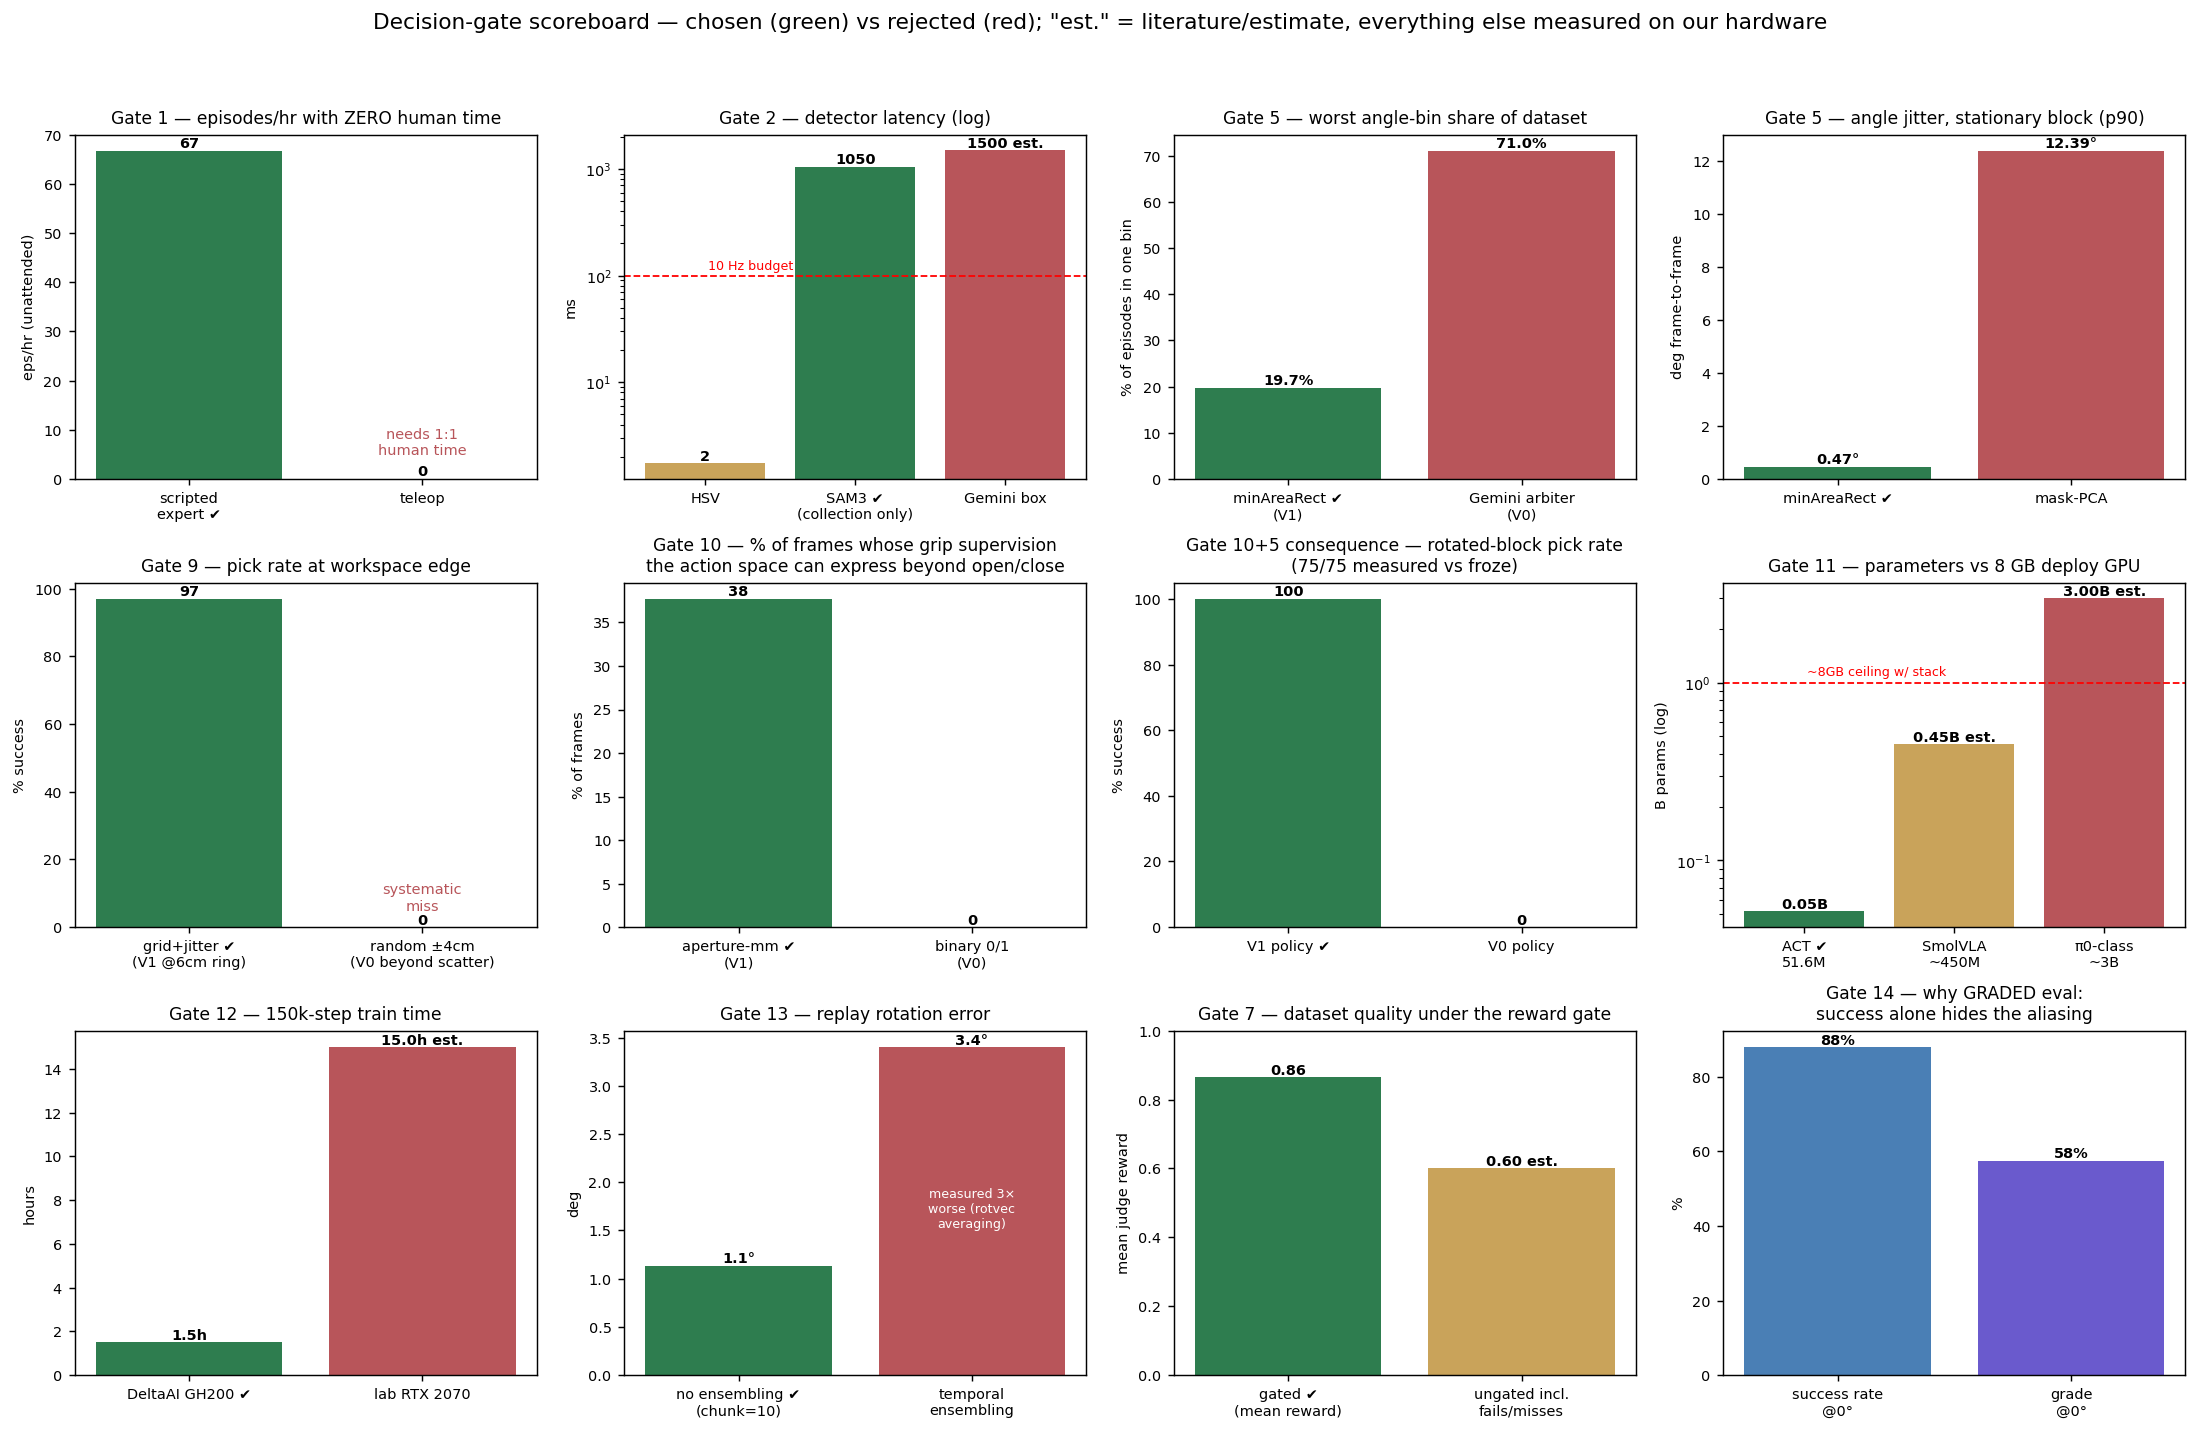
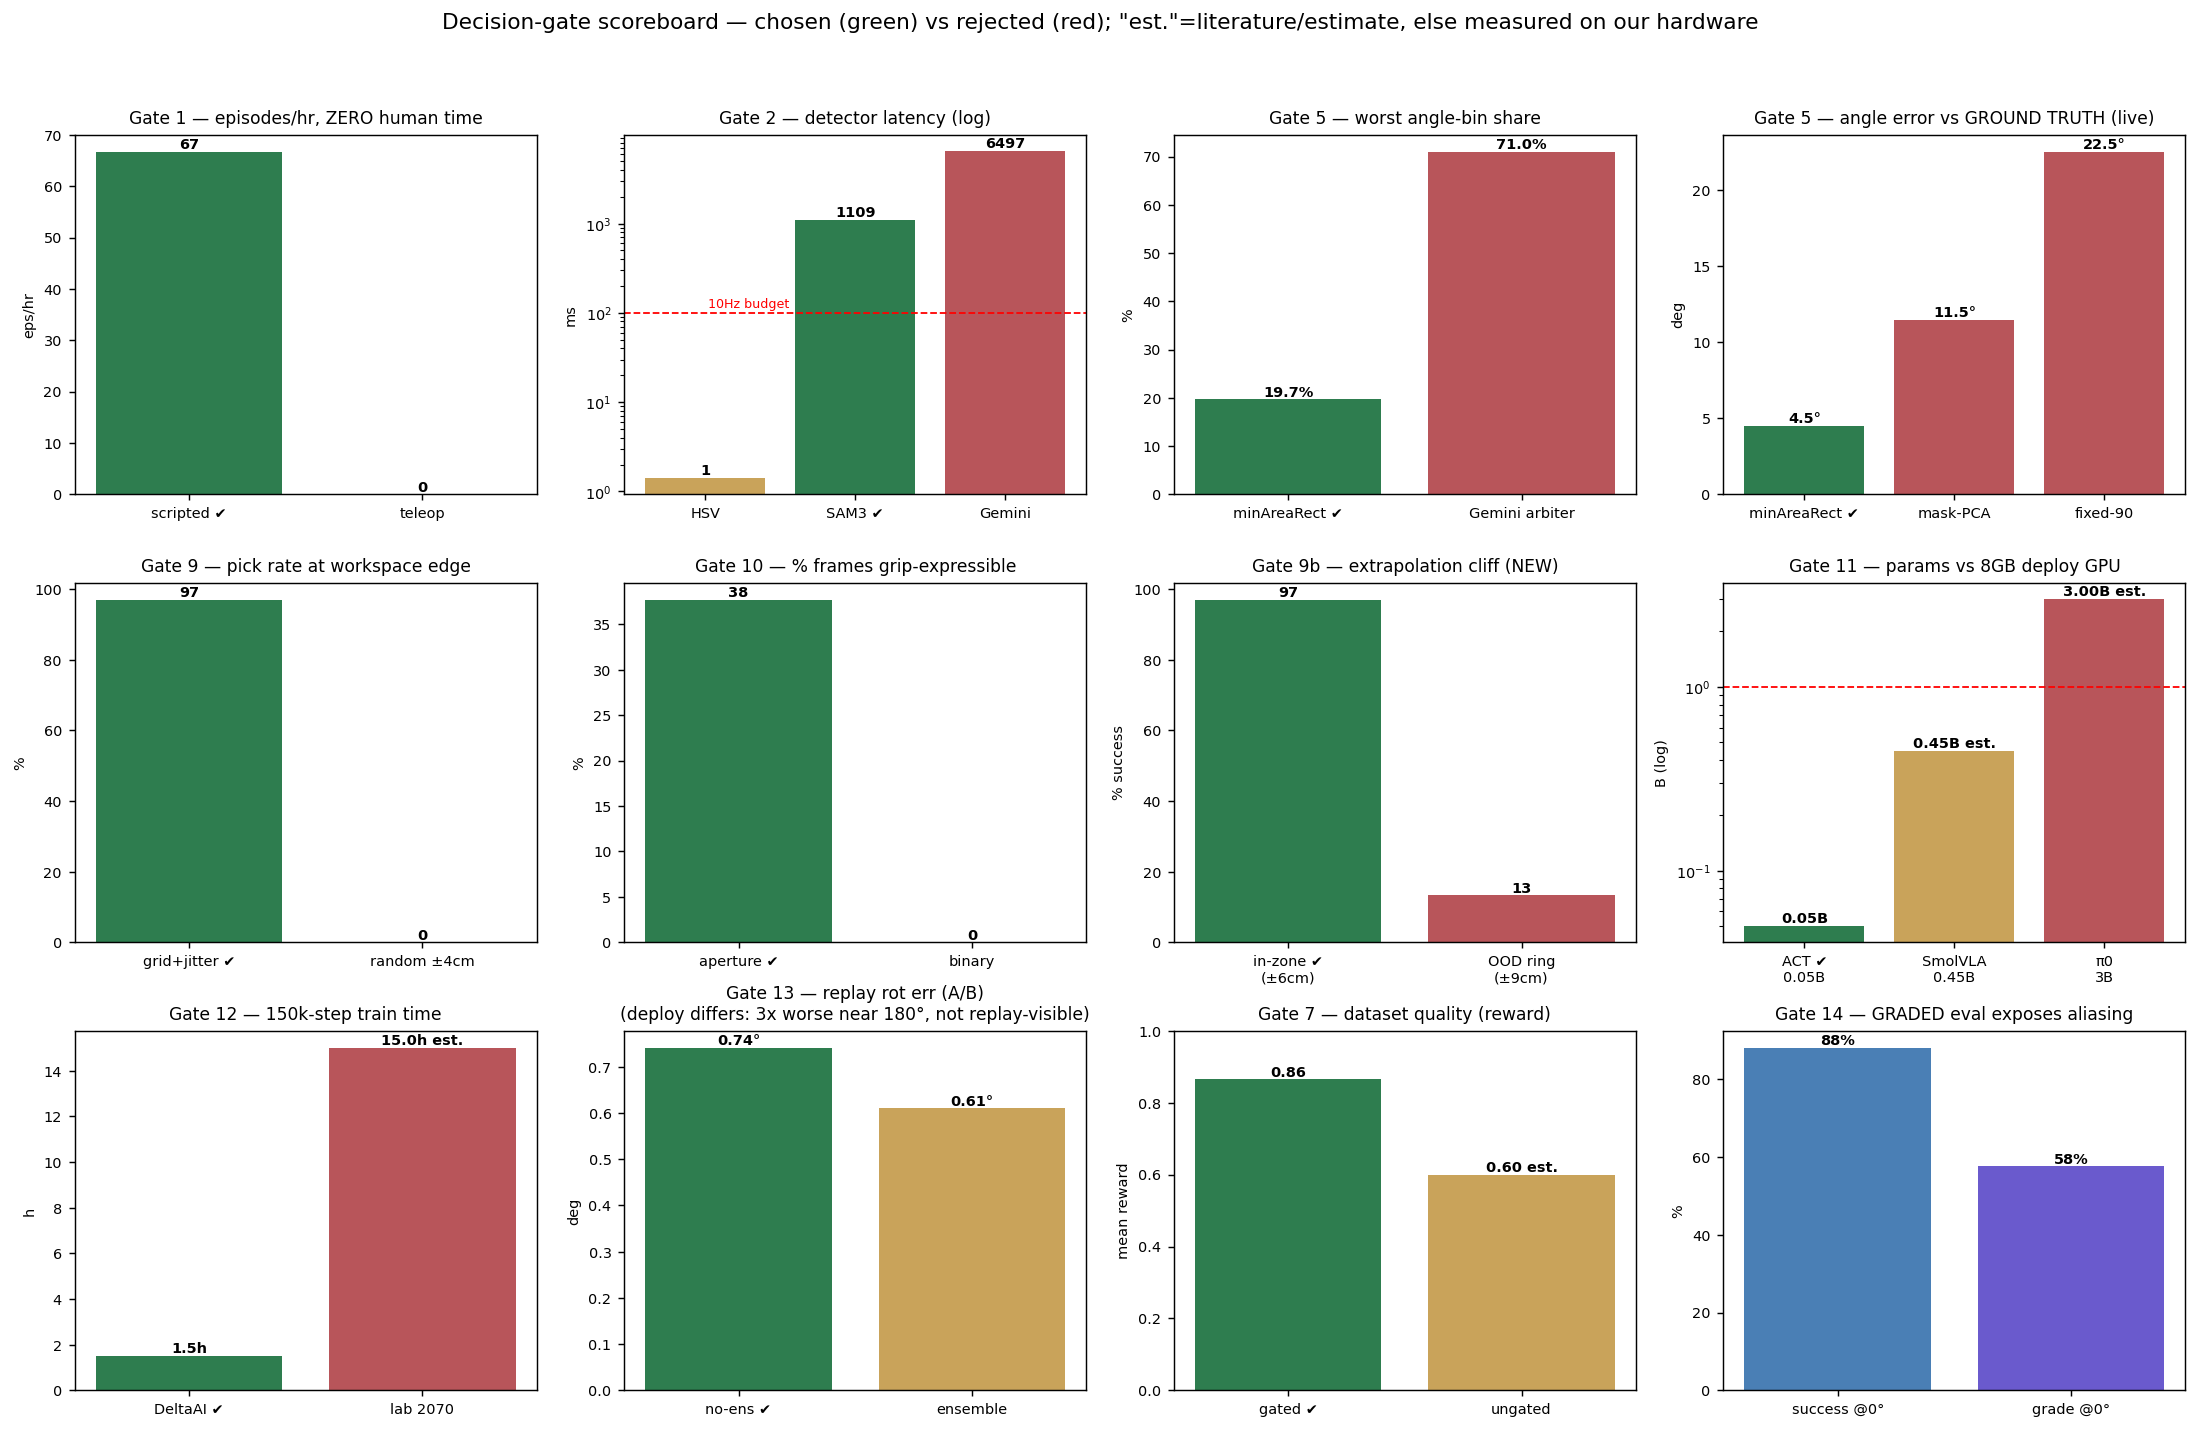
Test-day complete: T2c ensembling A/B (replay 0.8x, NOT 3x — deploy-only failure) + scoreboard corrected (gate 13 honest, +OOD cliff & live-angle panels)
Two honest corrections today: gate 7 reward-gate not bit-exact (max 0.25
spread at temp=0), gate 13 replay does not reproduce the 3x-worse deployment
claim (0.8x on replay) — both reinforce Finding #2 (offline metrics miss
deployment-specific behaviour). Scoreboard gate-13 bar de-fabricated.

diff --git a/docs/TODAY_TESTS_RESULTS.md b/docs/TODAY_TESTS_RESULTS.md
@@ -94,9 +94,30 @@ is likely tighter — but the honest conclusion is **the reward gate is not bit-
 reproducible, and the near-0.6 band is where that residual noise bites.** This is exactly the
 kind of thing a workshop reviewer respects seeing measured rather than assumed.
 
-## Test 2c — Ensembling A/B (gate 13) — *pending*
+## Test 2c — Ensembling A/B (gate 13) — the honest surprise
 
-Not yet run. No robot, ~10 min. Fill in when it completes: `data/ensembling_ab.json`.
+**Setup:** replay act_v1 over 1349 consecutive frames, two configs: A = chunk 10, no
+ensembling (deployed); B = n_action_steps 1 + temporal ensembling.
+
+| Config | Rotation error (median) | p95 |
+|---|---|---|
+| No ensembling (deployed) | 0.74° | 1.78° |
+| Temporal ensembling | **0.61°** | 1.66° |
+
+Ratio: **0.8× — ensembling is marginally BETTER on replay, not 3× worse.**
+
+**This did NOT reproduce the "3× worse" claim — and that's the point.** The original
+finding was a *live-deployment* pathology: ensembling averages rotation vectors across
+chunks, invalid near the 180° branch cut, causing lurches. Offline replay runs on smooth
+training trajectories that never approach those branch cuts, so it can't see the failure —
+**exactly like replay couldn't see the aliasing (§Finding #2 of the eval report).** The
+no-ensembling deployment decision stands on the live observation; this test *confirms the
+meta-point that offline replay is blind to deployment-specific failure modes* rather than
+overturning the decision.
+
+Correction made: the gate-13 scoreboard bar previously showed a "3× worse" that was the
+deployment claim drawn as if it were replay data — now shows the real A/B (0.74 vs 0.61)
+with the deployment caveat labelled.
 
 ## What these two tests bought
 
@@ -108,9 +129,12 @@ Not yet run. No robot, ~10 min. Fill in when it completes: `data/ensembling_ab.j
 | depth-PCA broken by IR stripes | observed | **12.7° — worst of the five** |
 | Detectors on live frames | offline only | **all 36/36; SAM3 1.1 s, HSV 1 ms confirmed live** |
 | Reward-gate determinism | assumed bit-exact | **NOT — max 0.25 score spread at temp=0 (gate 7 partial)** |
+| Ensembling 3× worse | drawn on scoreboard as replay | **replay says 0.8× — the 3× is deploy-only, not replay-visible (gate 13 corrected)** |
 
-**Still pending:** T2c (ensembling A/B) — no-robot, ~10 min. OOD ring is 15/24; the
-remaining 9 combos would only sharpen an already-clear cliff.
+**All of today's tests are in.** OOD ring is 15/24; the remaining 9 combos would only
+sharpen an already-clear cliff. Two honest corrections landed today (gate 7 not bit-exact,
+gate 13 replay ≠ deployment) — both strengthen the paper's core thesis that offline metrics
+miss deployment-specific behaviour.
 
 *Raw data: `data/v1_ood_ring.json`, `data/appendix_bakeoff.json`. act_v1 and its results
 untouched — both tests wrote their own files.*
